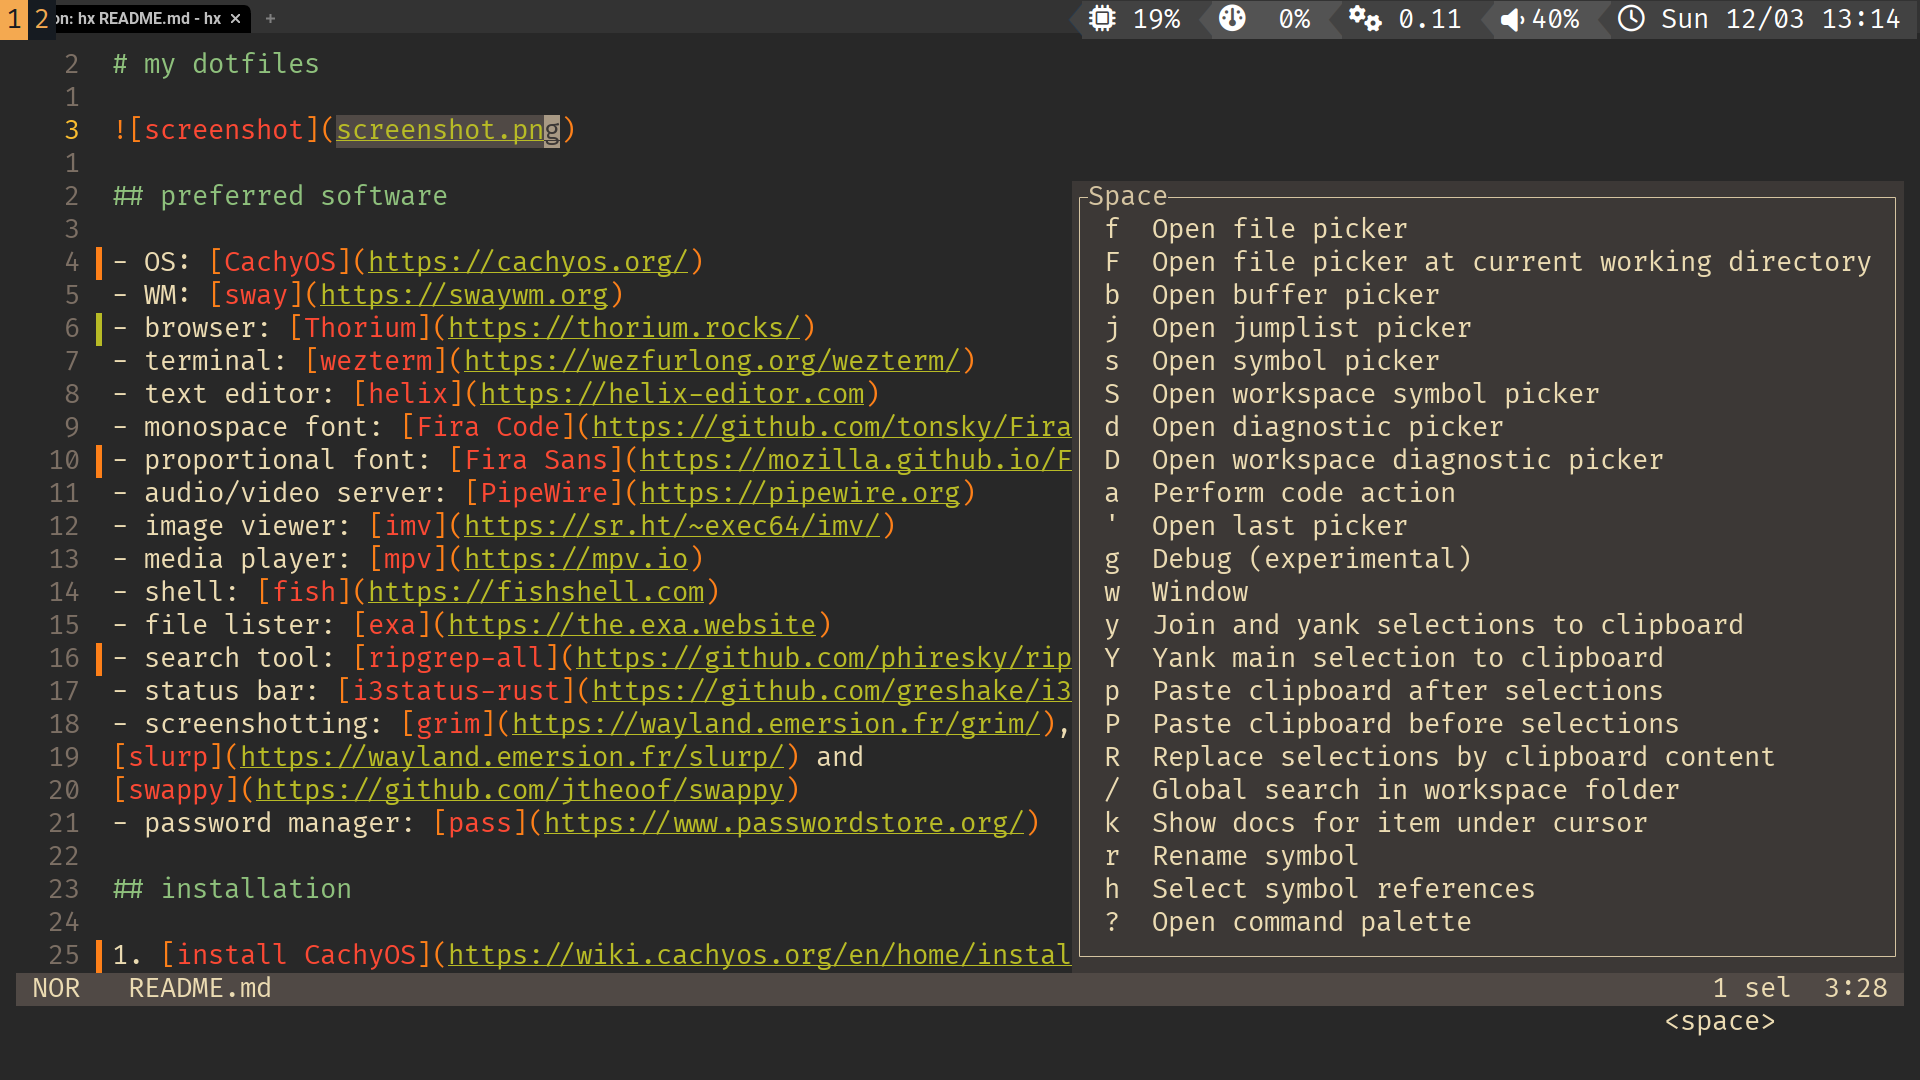
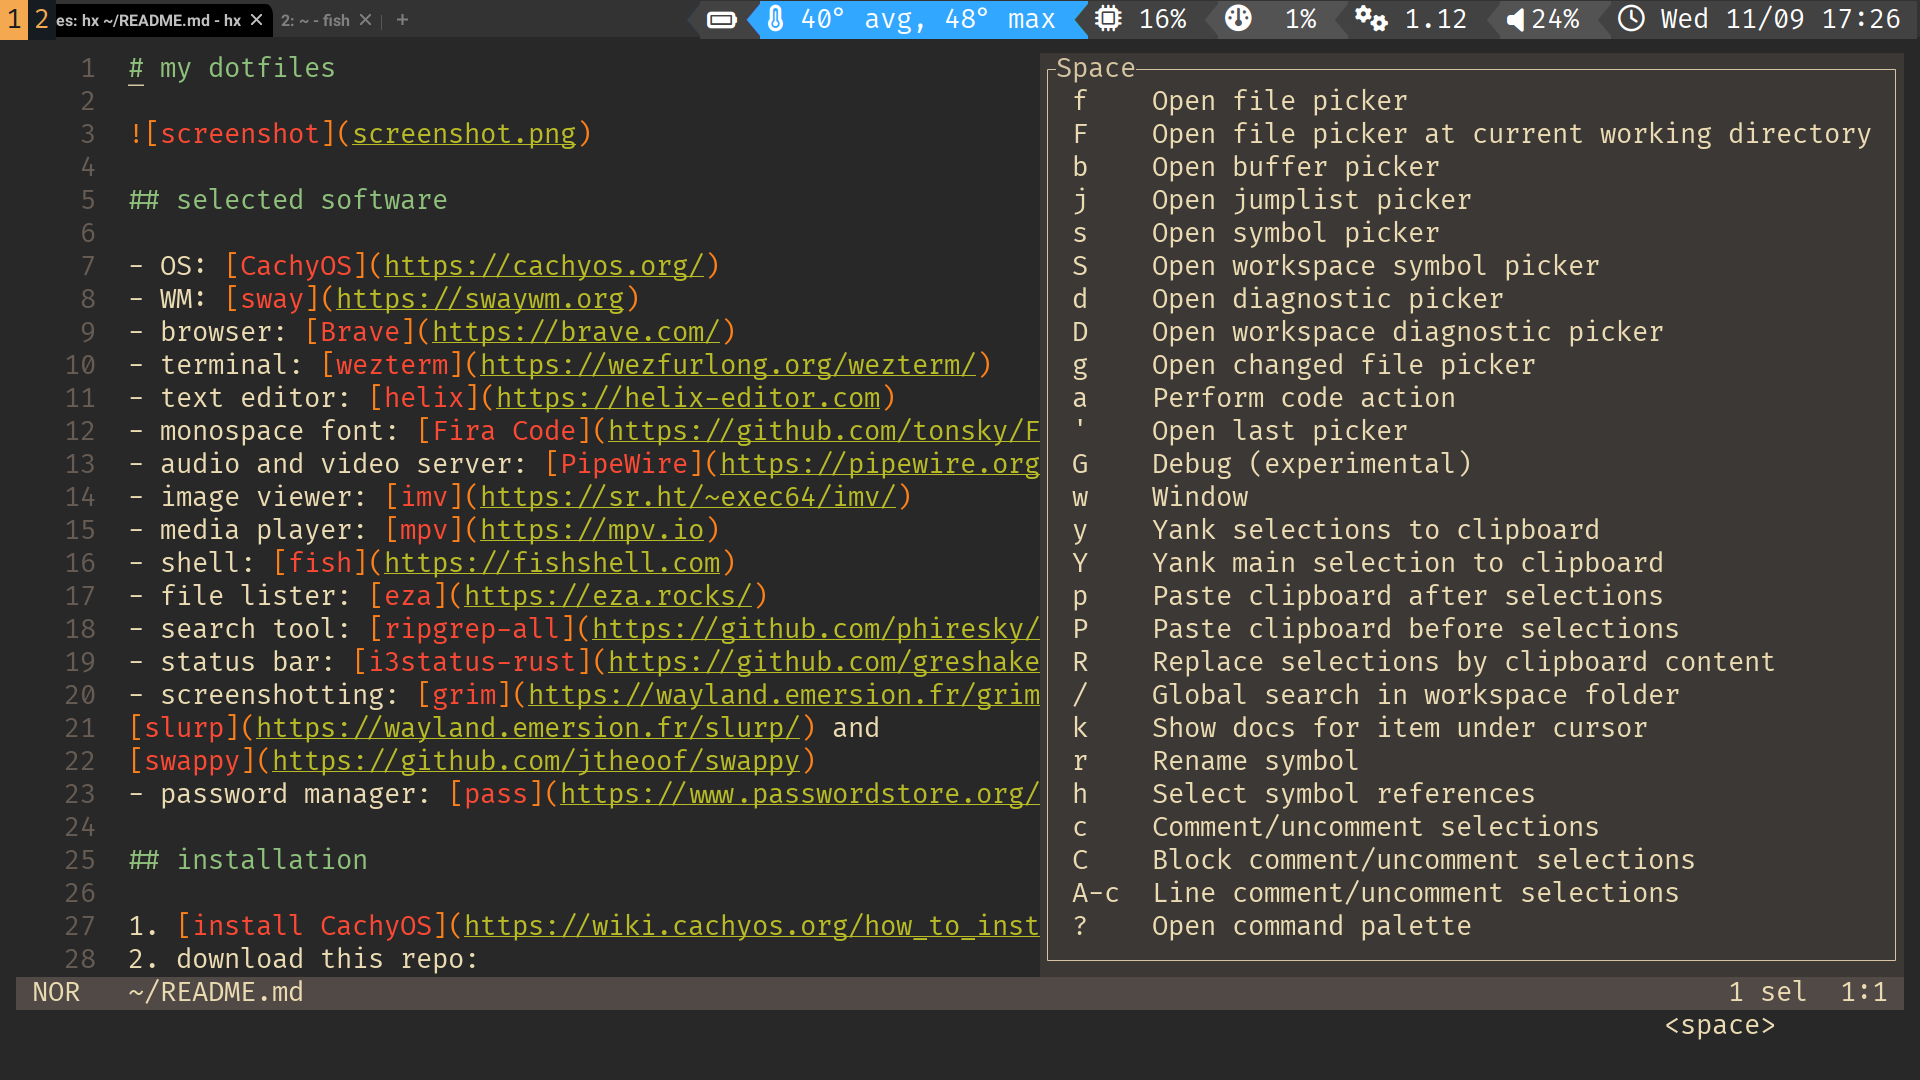
update

diff --git a/README.md b/README.md
@@ -6,7 +6,7 @@
 
 - OS: [CachyOS](https://cachyos.org/)
 - WM: [sway](https://swaywm.org)
-- browser: [Thorium](https://thorium.rocks/)
+- browser: [Brave](https://brave.com/)
 - terminal: [wezterm](https://wezfurlong.org/wezterm/)
 - text editor: [helix](https://helix-editor.com)
 - monospace font: [Fira Code](https://github.com/tonsky/FiraCode)
@@ -14,7 +14,7 @@
 - image viewer: [imv](https://sr.ht/~exec64/imv/)
 - media player: [mpv](https://mpv.io)
 - shell: [fish](https://fishshell.com)
-- file lister: [exa](https://the.exa.website)
+- file lister: [eza](https://eza.rocks/)
 - search tool: [ripgrep-all](https://github.com/phiresky/ripgrep-all)
 - status bar: [i3status-rust](https://github.com/greshake/i3status-rust/)
 - screenshotting: [grim](https://wayland.emersion.fr/grim/),
@@ -33,27 +33,20 @@
     git fetch
     git checkout -f master
     ```
-3. install the required packages: `./install.sh`
+3. install the packages: `./install.sh`
 4. consider applying the
-[general system tweaks](https://wiki.cachyos.org/general_info/general_system_tweaks/)
+[general system tweaks](https://wiki.cachyos.org/configuration/general_system_tweaks/)
 5. consider disabling swap by adding `systemd.zram=0` to the kernel cmdline
 (in the case of systemd-boot, add it to `LINUX_OPTIONS` in `/etc/sdboot-manage.conf`
 and run `sudo sdboot-manage gen`)
-6. [configure Thorium](chromium_configuration.md)
+6. [configure the browser](chromium-configuration.md)
 
 ## to begin
 
 1. turn on your PC
 2. log in
-3. press `Super+Enter` to open terminal
-4. launch Thorium: `thorium-browser
---ozone-platform-hint=auto
---ignore-gpu-blocklist
---enable-gpu-rasterization
---enable-zero-copy
---force-dark-mode
---enable-features=WebUIDarkMode
-&>/dev/null & disown`
+3. press `Super+Enter` to open the terminal
+4. launch the browser: `brave &>/dev/null & disown`
 5. move it to the second workspace with `Super+Shift+2`
 so that there is only 1 fullscreen window per workspace
 6. enjoy

diff --git a/chromium-configuration.md b/chromium-configuration.md
@@ -37,4 +37,5 @@ Search engine used in the address bar/🦆 DuckDuckGo
 ## add extensions
 
 - [uBlock Origin](https://chrome.google.com/webstore/detail/ublock-origin/cjpalhdlnbpafiamejdnhcphjbkeiagm)
+(not required in case of Brave)
 - [Dark Reader](https://chrome.google.com/webstore/detail/dark-reader/eimadpbcbfnmbkopoojfekhnkhdbieeh)
